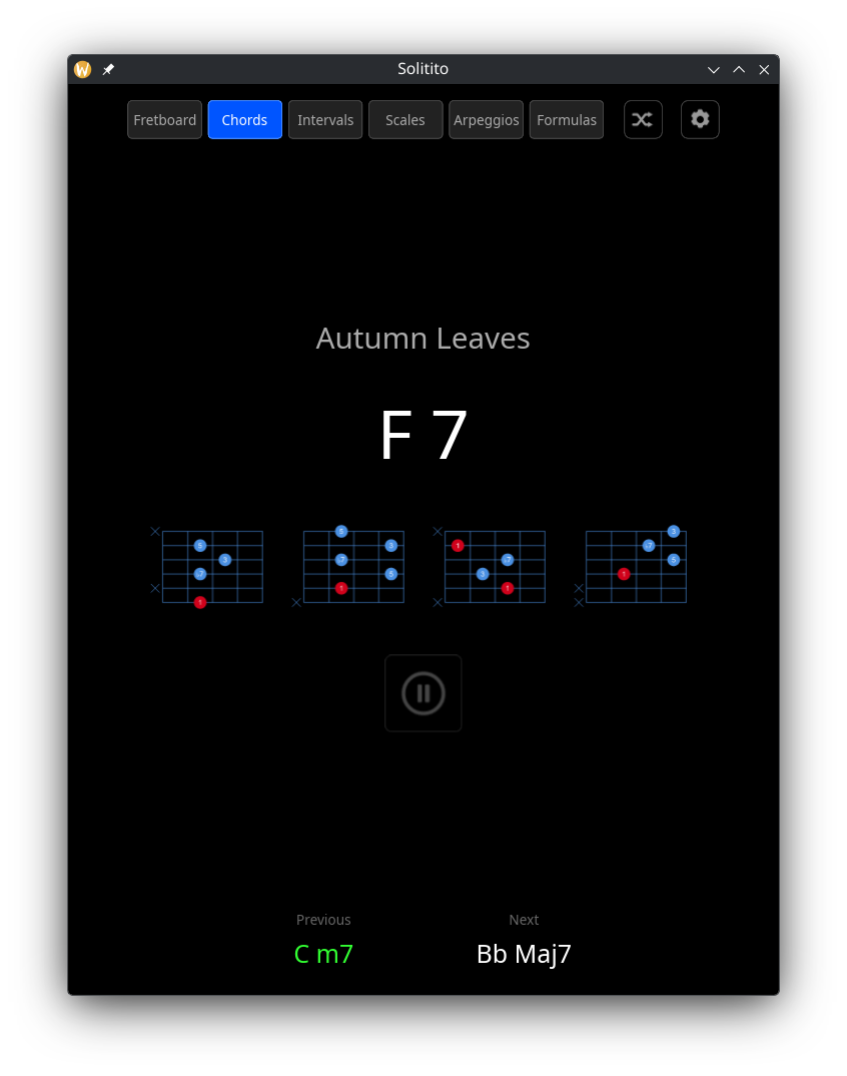
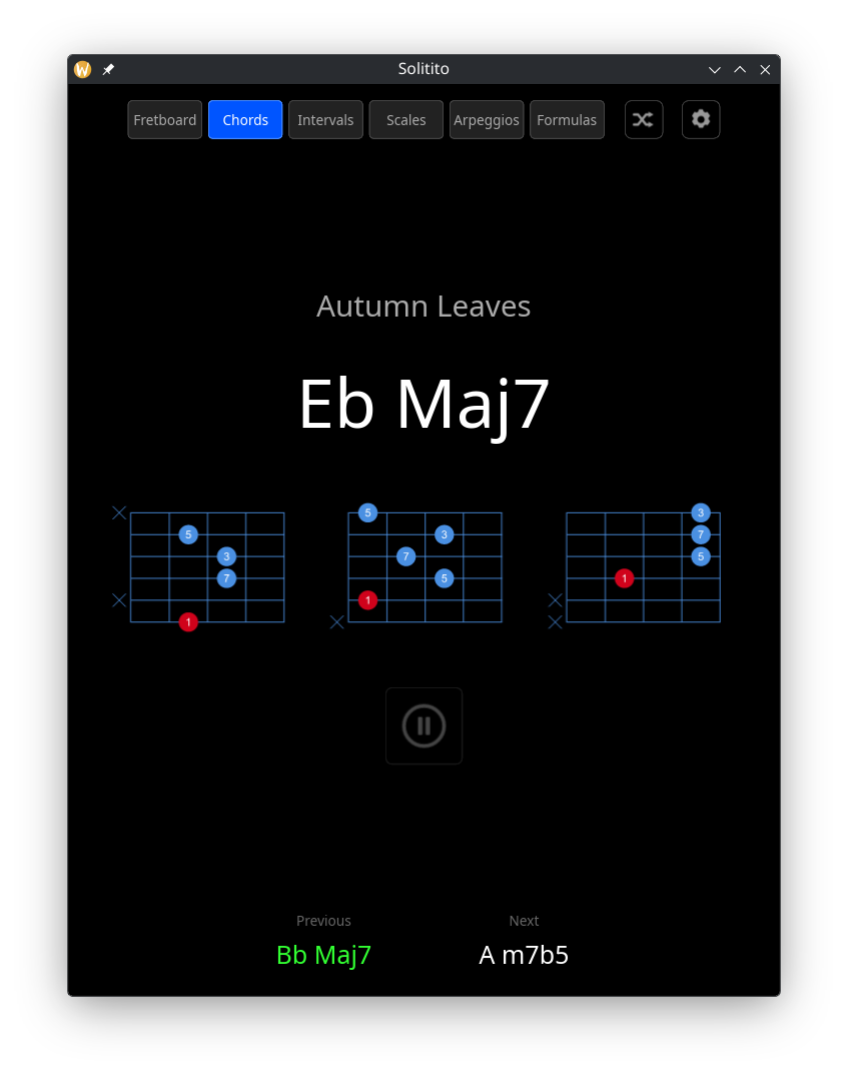
Add shell voicings screenshot to README, three shots side by side

diff --git a/README.md b/README.md
@@ -10,13 +10,16 @@ Recognition runs on a small neural network (7.3M parameters) exported to ONNX. E
 DSP, inference, UI — happens locally on the CPU. 
 
 <div align="center">
-<img height="479" alt="Solitito main window" src="docs/solitito_main.png" />
-<img height="479" alt="Chord shape, enlarged" src="docs/solitito_chord_diagrams.png" />
+<img height="320" alt="Solitito main window" src="docs/solitito_main.png" />
+<img height="320" alt="Shell voicings" src="docs/solitito_main_shell_voicings.png" />
+<img height="320" alt="Chord shape, enlarged" src="docs/solitito_chord_diagrams.png" />
 </div>
 
 Chord shapes are labelled with **intervals, not fingerings**, so one diagram covers
 all twelve keys: the red dot is the root, and the shape moves. Clicking shape of chord 
-enlarges it.
+enlarges it. The middle shot shows the same chord as **shell voicings** — third and
+seventh over the root, with the fifth left out — which is the other thing the shapes
+can be drawn as.
 
 Solitito is heavily inspired by [Solo](https://www.solotrainer.app/), an Android/iOS guitar
 trainer I use daily. Solo does far more, and does it well — but it hears one note at a time.

diff --git a/README_pl.md b/README_pl.md
@@ -10,13 +10,15 @@ Rozpoznawanie działa na niewielkiej sieci neuronowej (7,3 mln parametrów) wyek
 ONNX. Wszystko — DSP, wnioskowanie, interfejs — dzieje się lokalnie.
 
 <div align="center">
-<img height="479" alt="Okno główne Solitito" src="docs/solitito_main.png" />
-<img height="479" alt="Powiększony schemat akordu" src="docs/solitito_chord_diagrams.png" />
+<img height="320" alt="Okno główne Solitito" src="docs/solitito_main.png" />
+<img height="320" alt="Shell voicingi" src="docs/solitito_main_shell_voicings.png" />
+<img height="320" alt="Powiększony schemat akordu" src="docs/solitito_chord_diagrams.png" />
 </div>
 
 Schematy akordów opisane są **interwałami**, więc jeden diagram obsługuje
 wszystkie dwanaście tonacji: czerwona kropka to pryma, kliknięcie w
-schemat powiększa go.
+schemat powiększa go. Środkowy zrzut pokazuje ten sam akord jako **shell voicingi** —
+tercja i septyma nad prymą, bez kwinty.
 
 Solitito jest mocno zainspirowane [Solo](https://www.solotrainer.app/), trenerem na
 Androida i iOS, z którego korzystam codziennie. Solo robi znacznie więcej i robi to dobrze —
